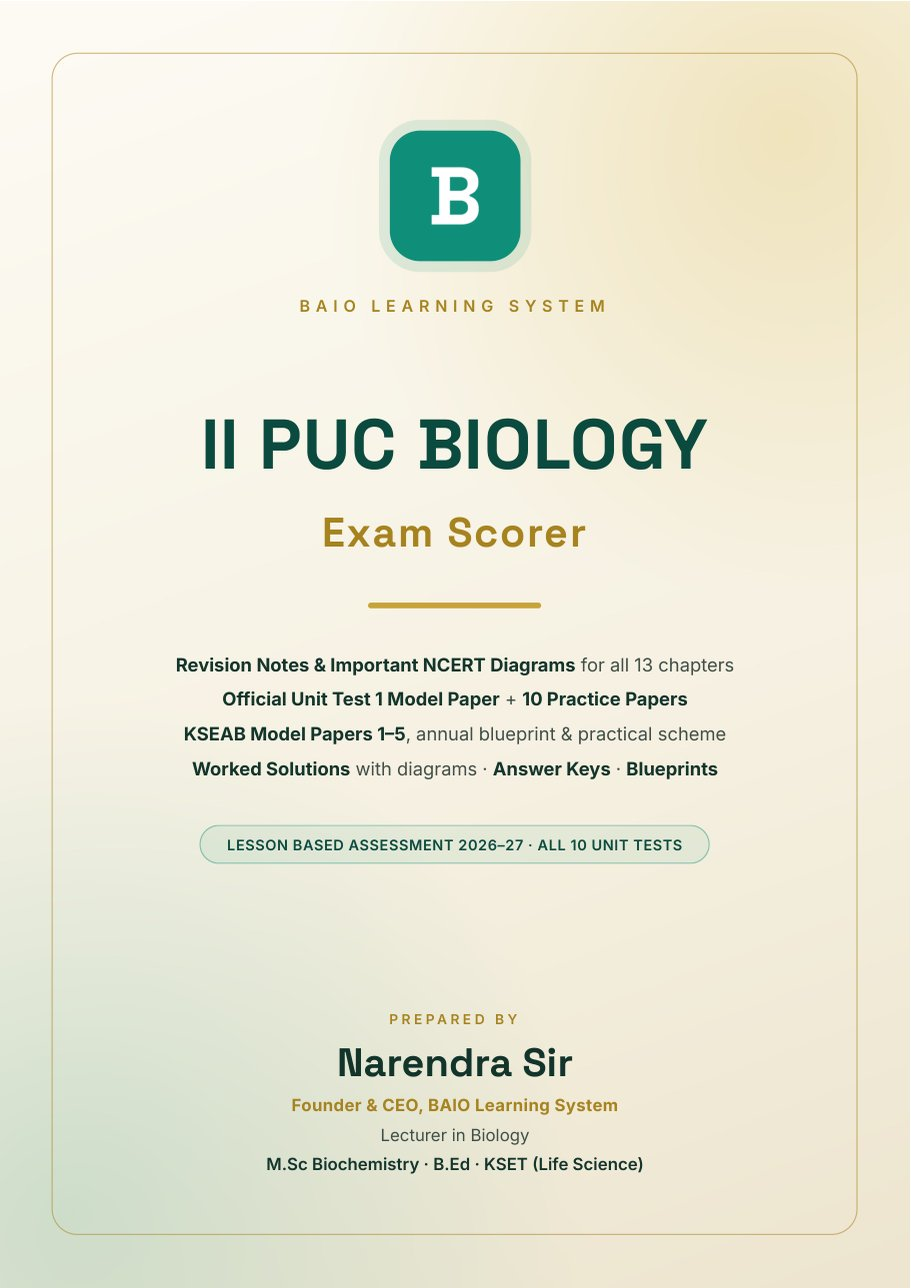
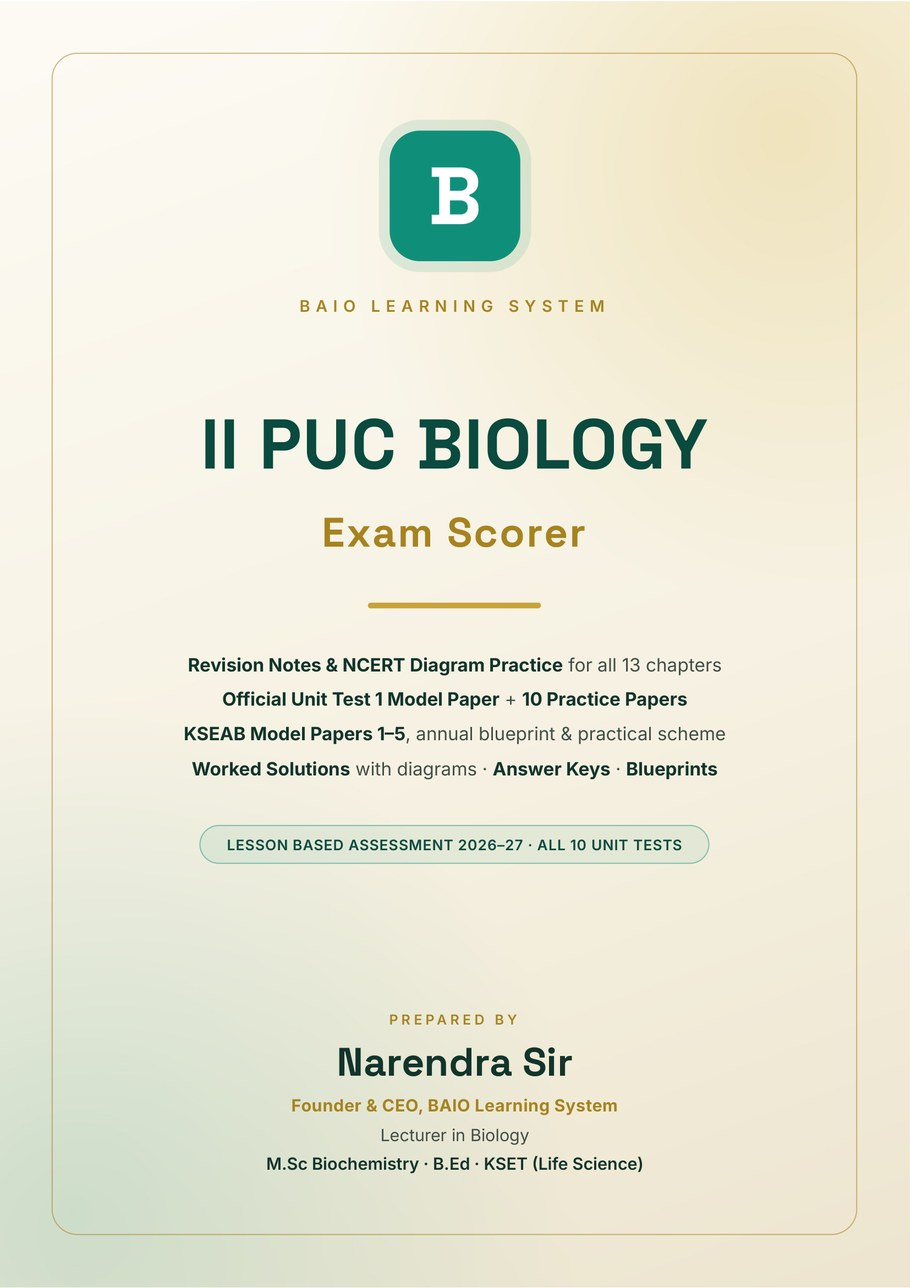
Exam Scorer books: diagram practice guide in place of NCERT figures
The I PUC and II PUC Exam Scorer PDFs no longer reproduce NCERT
artwork. Each important figure is now a practice card: its NCERT figure
number and title, the chapter, the key labels to show, and space to
draw it. Worked solutions name the figure to draw and its labels.

On the book page:
- the "What's inside" text and tips now describe the diagram practice
- the page counts are updated (I PUC 170, II PUC 140)
- the "Look inside" previews (covers, contents, II PUC diagrams,
  solutions) and the two banners are re-rendered from the new books

Claude-Session: https://claude.ai/code/session_018C4n4vzEMqcAsnHenBCffi

diff --git a/biology-prep-books.html b/biology-prep-books.html
@@ -125,8 +125,8 @@ h2{font-size:15px; font-weight:800; margin:22px 0 8px; color:var(--teal);}
   </div>
 
   <div class="tabs" role="tablist" aria-label="Choose your book">
-    <button type="button" role="tab" id="tab-pu1" aria-controls="book-pu1" aria-selected="true" data-book="pu1">I PUC Book<small>178 pages &middot; &#8377;50</small></button>
-    <button type="button" role="tab" id="tab-pu2" aria-controls="book-pu2" aria-selected="false" data-book="pu2">II PUC Book<small>145 pages &middot; &#8377;50</small></button>
+    <button type="button" role="tab" id="tab-pu1" aria-controls="book-pu1" aria-selected="true" data-book="pu1">I PUC Book<small>170 pages &middot; &#8377;50</small></button>
+    <button type="button" role="tab" id="tab-pu2" aria-controls="book-pu2" aria-selected="false" data-book="pu2">II PUC Book<small>140 pages &middot; &#8377;50</small></button>
   </div>
 
   <!-- ================= I PUC ================= -->
@@ -135,7 +135,7 @@ h2{font-size:15px; font-weight:800; margin:22px 0 8px; color:var(--teal);}
       <img src="prep-books-assets/pu1/cover.jpg" alt="Book cover: I PUC Biology Exam Scorer" width="911" height="1288">
       <div>
         <div class="price">&#8377;50</div>
-        <div class="per">One-time payment &middot; 178-page PDF</div>
+        <div class="per">One-time payment &middot; 170-page PDF</div>
         <ul>
           <li>Colour edition for your phone</li>
           <li>Black-and-white edition for printing</li>
@@ -146,7 +146,7 @@ h2{font-size:15px; font-weight:800; margin:22px 0 8px; color:var(--teal);}
     <h2>What's inside</h2>
     <div class="inside">
       <div><b>Revision notes</b><span>All 19 chapters, as in the current NCERT, with board marks for each chapter.</span></div>
-      <div><b>Important diagrams</b><span>Labelled NCERT diagrams for every unit, ready to practise.</span></div>
+      <div><b>Diagram practice</b><span>Every important NCERT figure with its key labels and space to draw it.</span></div>
       <div><b>Official Model Question Paper</b><span>The Department's Unit Test 1 paper, with full solutions.</span></div>
       <div><b>12 practice papers</b><span>Original papers in the exact Unit Test pattern, for all 10 Unit Tests.</span></div>
       <div><b>Worked solutions</b><span>Model answers for every question, with the diagram to draw wherever asked.</span></div>
@@ -168,7 +168,7 @@ h2{font-size:15px; font-weight:800; margin:22px 0 8px; color:var(--teal);}
       <img src="prep-books-assets/pu2/cover.jpg" alt="Book cover: II PUC Biology Exam Scorer" width="911" height="1288">
       <div>
         <div class="price">&#8377;50</div>
-        <div class="per">One-time payment &middot; 145-page PDF</div>
+        <div class="per">One-time payment &middot; 140-page PDF</div>
         <ul>
           <li>Colour edition for your phone</li>
           <li>Black-and-white edition for printing</li>
@@ -179,7 +179,7 @@ h2{font-size:15px; font-weight:800; margin:22px 0 8px; color:var(--teal);}
     <h2>What's inside</h2>
     <div class="inside">
       <div><b>Revision notes</b><span>All 13 chapters, as in the current NCERT Class XII, with KSEAB board marks.</span></div>
-      <div><b>Important diagrams</b><span>Labelled NCERT diagrams for every unit, ready to practise.</span></div>
+      <div><b>Diagram practice</b><span>Every important NCERT figure with its key labels and space to draw it.</span></div>
       <div><b>Official Model Question Paper</b><span>The Department's Unit Test 1 paper, with full solutions.</span></div>
       <div><b>10 practice papers</b><span>One original paper for every Unit Test, in the exact pattern.</span></div>
       <div><b>Worked solutions</b><span>Model answers with diagrams, answer keys and a blueprint after every paper.</span></div>
@@ -189,7 +189,7 @@ h2{font-size:15px; font-weight:800; margin:22px 0 8px; color:var(--teal);}
     <div class="samples">
       <figure><img src="prep-books-assets/pu2/contents.jpg" alt="Contents page" loading="lazy" width="911" height="1288"><figcaption>Contents</figcaption></figure>
       <figure><img src="prep-books-assets/pu2/notes.jpg" alt="Revision notes page" loading="lazy" width="911" height="1288"><figcaption>Revision notes</figcaption></figure>
-      <figure><img src="prep-books-assets/pu2/diagrams.jpg" alt="Important diagrams page" loading="lazy" width="911" height="1288"><figcaption>Important diagrams</figcaption></figure>
+      <figure><img src="prep-books-assets/pu2/diagrams.jpg" alt="Diagram practice page" loading="lazy" width="911" height="1288"><figcaption>Diagram practice</figcaption></figure>
       <figure><img src="prep-books-assets/pu2/paper.jpg" alt="Practice paper page" loading="lazy" width="911" height="1288"><figcaption>Practice paper</figcaption></figure>
       <figure><img src="prep-books-assets/pu2/solutions.jpg" alt="Worked solutions page with a diagram" loading="lazy" width="911" height="1288"><figcaption>Worked solutions</figcaption></figure>
       <figure><img src="prep-books-assets/pu2/model-paper.jpg" alt="KSEAB Model Question Paper page" loading="lazy" width="911" height="1288"><figcaption>KSEAB Model Paper</figcaption></figure>
@@ -202,7 +202,7 @@ h2{font-size:15px; font-weight:800; margin:22px 0 8px; color:var(--teal);}
     <li><i>📊</i><b>Know where the marks are.</b> Every chapter shows its board weightage and every paper has a blueprint, so you revise high-mark chapters first.</li>
     <li><i>⏱</i><b>Practise in the real pattern.</b> Timed papers in the official format build speed and exam confidence.</li>
     <li><i>✍</i><b>Learn how to write answers.</b> Worked solutions show the points examiners look for, at the right length for 2, 3 and 5 marks.</li>
-    <li><i>🔬</i><b>Score the diagram marks.</b> Clear labelled NCERT diagrams, and solutions show exactly which diagram to draw.</li>
+    <li><i>🔬</i><b>Score the diagram marks.</b> Every important NCERT figure is listed with its key labels and space to practise, and solutions show exactly which figure to draw.</li>
     <li><i>✅</i><b>Check yourself instantly.</b> Answer keys and model answers let you correct your own work.</li>
     <li><i>🧬</i><b>Strong NCERT basics for NEET &amp; KCET</b>, since the notes come straight from NCERT.</li>
   </ul>
